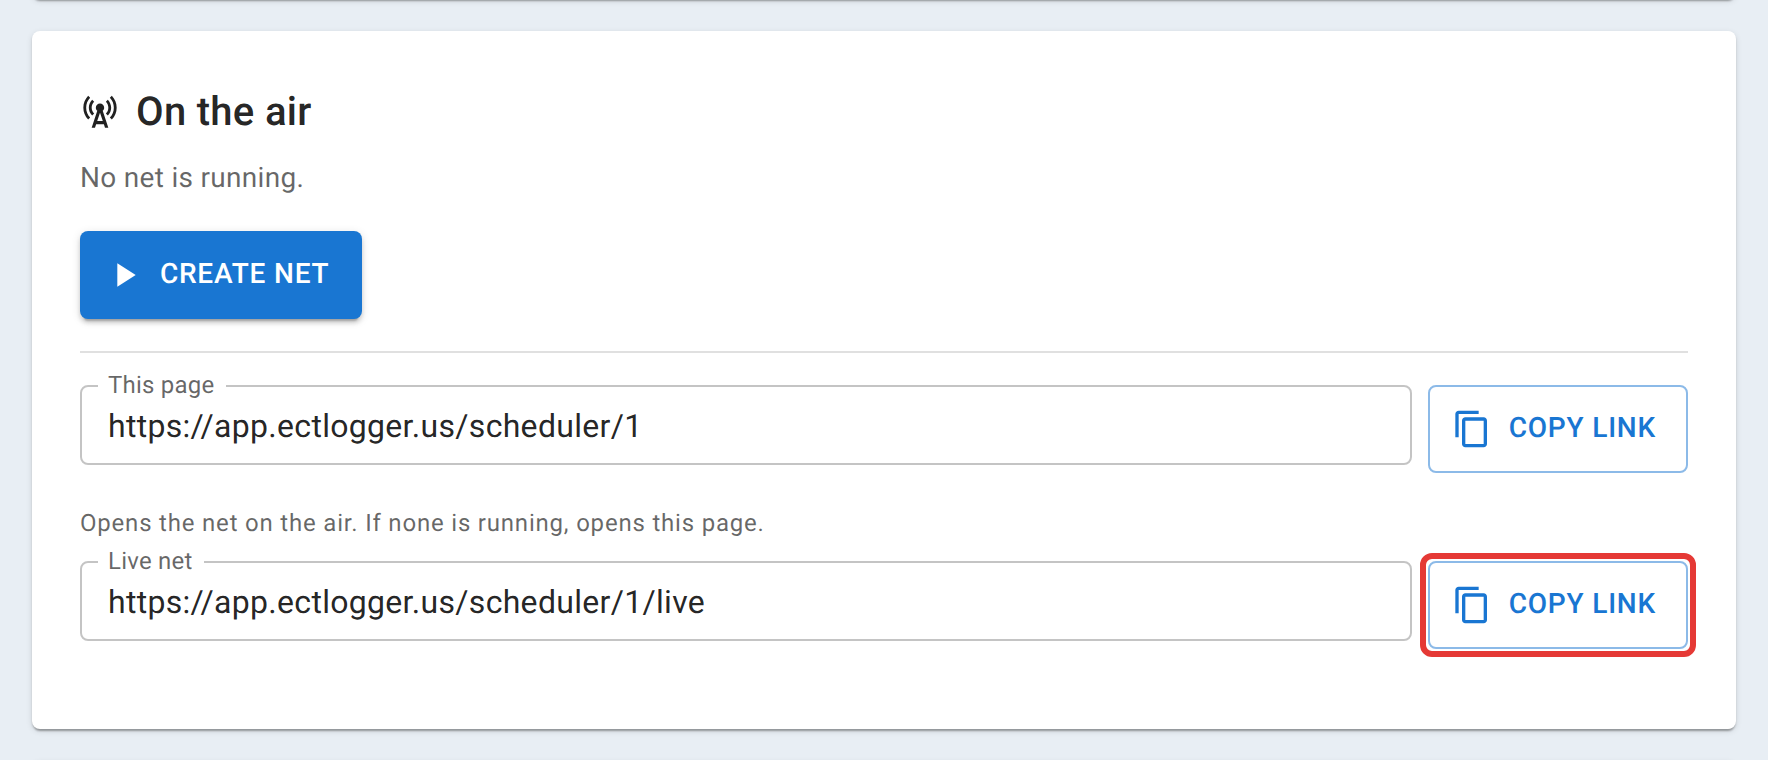
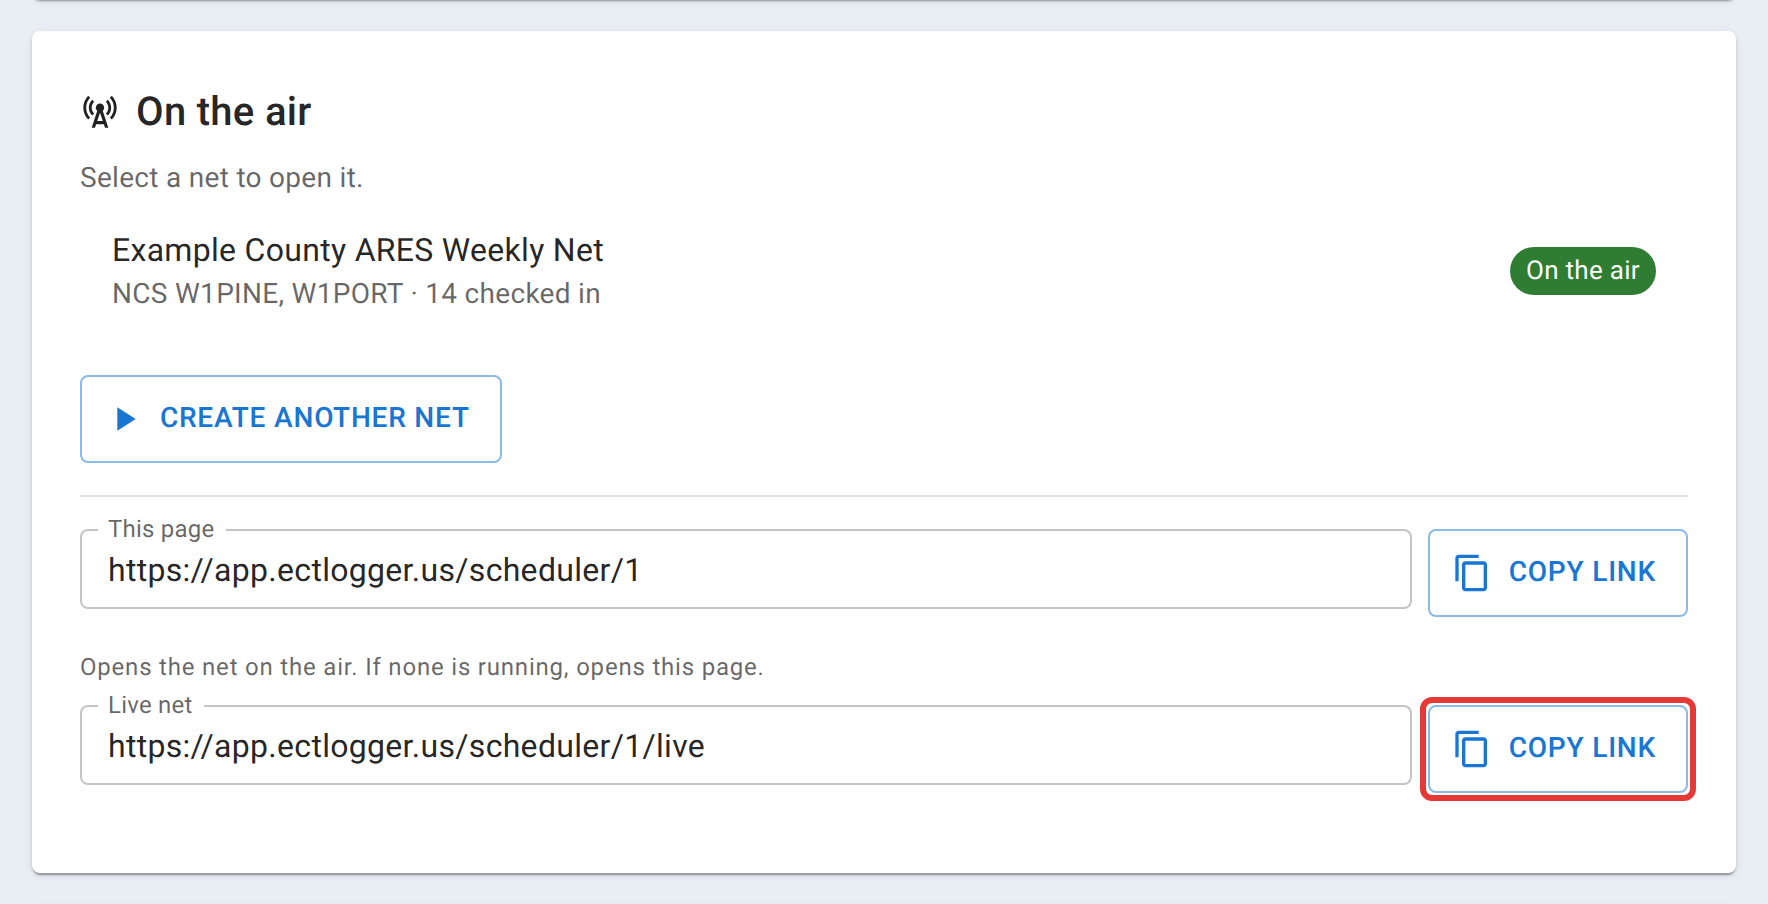
Schedule page: say the net rows open, and wait for the list before offering Create
The On the air and Past nets lists now carry a one-line hint that a row
opens the net or its report. Until the net list loaded, the page showed
'No net is running' and a filled Create net button, inviting a duplicate
net on a slow connection; it now shows a spinner, and an error if the
list can't be read.

Claude-Session: https://claude.ai/code/session_01N38C5hU4iFQG7MHaLXB5jw

diff --git a/frontend/src/pages/ScheduleHome.tsx b/frontend/src/pages/ScheduleHome.tsx
@@ -98,6 +98,9 @@ const ScheduleHome: React.FC = () => {
   const [schedule, setSchedule] = useState<Schedule | null>(null);
   const [status, setStatus] = useState<'loading' | 'ready' | 'not_found' | 'error'>('loading');
   const [currentNets, setCurrentNets] = useState<ScheduleNet[]>([]);
+  // Until the list arrives, "no net is running" would be a guess, and showing
+  // Create beside it invites a duplicate net.
+  const [netsStatus, setNetsStatus] = useState<'loading' | 'ready' | 'error'>('loading');
   const [pastNets, setPastNets] = useState<ScheduleNet[]>([]);
   const [upcoming, setUpcoming] = useState<UpcomingEntry[]>([]);
   const [hasRotation, setHasRotation] = useState(false);
@@ -140,6 +143,9 @@ const ScheduleHome: React.FC = () => {
         ...nets.filter((n) => ON_AIR_STATUSES.includes(n.status)),
         ...nets.filter((n) => NOT_STARTED_STATUSES.includes(n.status)),
       ]);
+      setNetsStatus('ready');
+    } else {
+      setNetsStatus('error');
     }
     if (past.status === 'fulfilled') setPastNets(past.value.data);
     if (rotation.status === 'fulfilled') {
@@ -293,8 +299,25 @@ const ScheduleHome: React.FC = () => {
           On the air
         </Typography>
 
+        {/* Shows above the list: the rows are links, which isn't obvious */}
+        {currentNets.length > 0 && (
+          <Typography variant="body2" color="text.secondary">
+            Select a net to open it.
+          </Typography>
+        )}
+
+        {/* Shows while the list is loading */}
+        {netsStatus === 'loading' && <CircularProgress size={24} sx={{ display: 'block', my: 1 }} />}
+
+        {/* Shows when the list could not be read */}
+        {netsStatus === 'error' && (
+          <Typography variant="body2" color="error">
+            The nets for this schedule couldn't be loaded. Reload the page to try again.
+          </Typography>
+        )}
+
         {/* Shows when nothing is running or waiting to start */}
-        {currentNets.length === 0 && (
+        {netsStatus === 'ready' && currentNets.length === 0 && (
           <Typography variant="body2" color="text.secondary" sx={{ mb: canCreateNet ? 2 : 0 }}>
             No net is running.
           </Typography>
@@ -329,8 +352,9 @@ const ScheduleHome: React.FC = () => {
         )}
 
         {/* Shows to staff who may create a net from this schedule. Outlined
-            when a net already exists, so it doesn't outrank opening that net. */}
-        {canCreateNet && (
+            when a net already exists, so it doesn't outrank opening that net.
+            Waits for the list, so nobody creates a net that already exists. */}
+        {canCreateNet && netsStatus === 'ready' && (
           <>
             <Button
               variant={currentNets.length === 0 ? 'contained' : 'outlined'}
@@ -431,6 +455,9 @@ const ScheduleHome: React.FC = () => {
           </Typography>
         ) : (
           <>
+            <Typography variant="body2" color="text.secondary">
+              Select a net to open its report.
+            </Typography>
             <List disablePadding>
               {pastNets.map((net) => (
                 <ListItemButton

diff --git a/docs/net-managers/net-staff-and-rotation.md b/docs/net-managers/net-staff-and-rotation.md
@@ -77,7 +77,7 @@ If you can create nets from the schedule, you also get:
 
 <figure>
   <img src="/docs/img/net-managers/schedule-page-links.png"
-       alt="The On the air section of a schedule's page, seen by its manager: the net running now with its NCS, check-in count and an On the air chip, a Create another net button, and two links to copy, This page and Live net, with the Live net link's Copy link button outlined in red.">
+       alt="The On the air section of a schedule's page, seen by its manager: a Select a net to open it hint, the net running now with its NCS, check-in count and an On the air chip, a Create another net button, and two links to copy, This page and Live net, with the Live net link's Copy link button outlined in red.">
   <figcaption>Live net is the link to put on your club's website.</figcaption>
 </figure>
 
